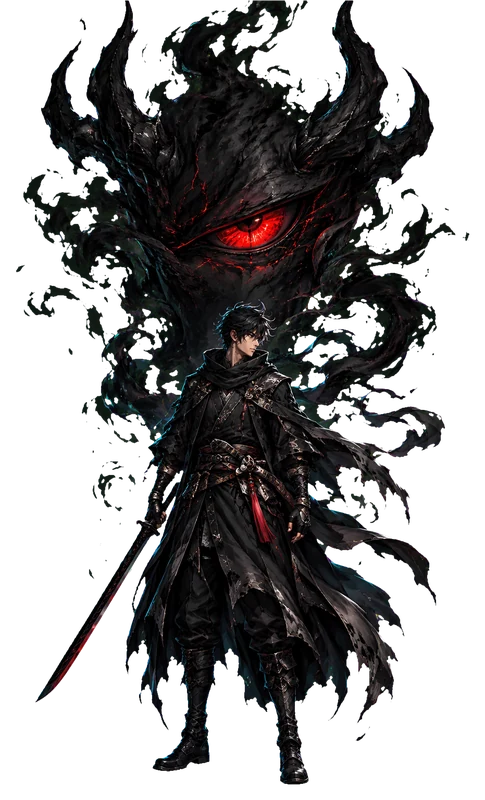
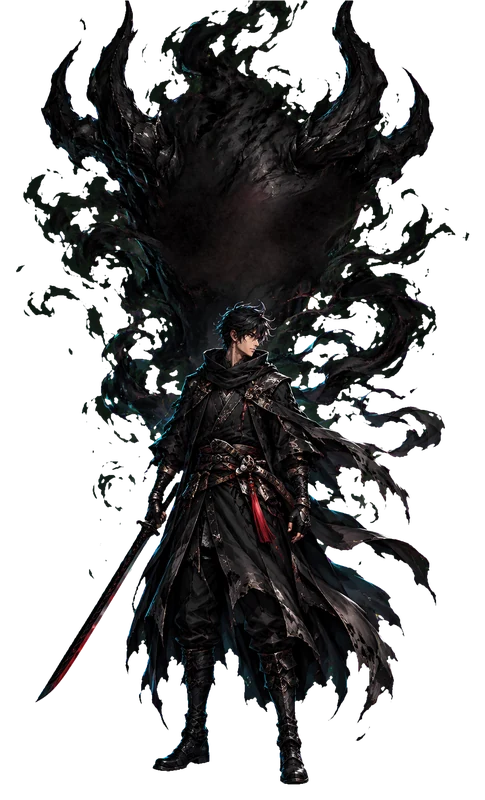
art: remove red eye from Shadow Devil portrait (shadow only); roster title; AGENTS.md note

Changed region(s): [[0.3402, 0.2188, 0.7113, 0.3438], [0.6186, 0.1875, 0.6495, 0.2188]]

diff --git a/dist-crazygames/src/js/data/EnemyRoster.js b/dist-crazygames/src/js/data/EnemyRoster.js
@@ -10,7 +10,7 @@ export const ENEMY_ROSTER = [
   { id: 'crimson-assassin', name: 'CRIMSON ASSASSIN', title: 'Twin Sickles',     accentColor: '#ef4444', portrait: '/src/assets/web/enemy-02-crimson-assassin.webp' },
   { id: 'oni-guard',        name: 'ONI GUARD',        title: 'Iron Demon',       accentColor: '#f97316', portrait: '/src/assets/web/enemy-03-oni-guard.webp' },
   { id: 'shadow-sentry',    name: 'SHADOW SENTRY',    title: 'Crimson Visor',    accentColor: '#dc2626', portrait: '/src/assets/web/enemy-04-shadow-sentry.webp' },
-  { id: 'shadow-devil',     name: 'SHADOW DEVIL',     title: 'The Watcher',      accentColor: '#ef4444', portrait: '/src/assets/web/enemy-05-shadow-devil.webp' },
+  { id: 'shadow-devil',     name: 'SHADOW DEVIL',     title: 'Living Shadow',    accentColor: '#7c3aed', portrait: '/src/assets/web/enemy-05-shadow-devil.webp' },
 ];
 
 /** A random roster entry (used for flavour art only). */

diff --git a/src/js/data/EnemyRoster.js b/src/js/data/EnemyRoster.js
@@ -10,7 +10,7 @@ export const ENEMY_ROSTER = [
   { id: 'crimson-assassin', name: 'CRIMSON ASSASSIN', title: 'Twin Sickles',     accentColor: '#ef4444', portrait: '/src/assets/web/enemy-02-crimson-assassin.webp' },
   { id: 'oni-guard',        name: 'ONI GUARD',        title: 'Iron Demon',       accentColor: '#f97316', portrait: '/src/assets/web/enemy-03-oni-guard.webp' },
   { id: 'shadow-sentry',    name: 'SHADOW SENTRY',    title: 'Crimson Visor',    accentColor: '#dc2626', portrait: '/src/assets/web/enemy-04-shadow-sentry.webp' },
-  { id: 'shadow-devil',     name: 'SHADOW DEVIL',     title: 'The Watcher',      accentColor: '#ef4444', portrait: '/src/assets/web/enemy-05-shadow-devil.webp' },
+  { id: 'shadow-devil',     name: 'SHADOW DEVIL',     title: 'Living Shadow',    accentColor: '#7c3aed', portrait: '/src/assets/web/enemy-05-shadow-devil.webp' },
 ];
 
 /** A random roster entry (used for flavour art only). */

diff --git a/AGENTS.md b/AGENTS.md
@@ -192,7 +192,7 @@ Founder's reference: a mobile-game lobby (profile plate top-left, icon column, n
 ### 8.6 v2.6 — Painted art pass (2026-10-05)
 AI-generated art (prompts: `docs/ART_PROMPTS.md`) is cut out with **`scripts/key-art.py`** (green screen -> transparent WebP; `--kind enemy|button`, `--mirror`). Re-run it for every new asset so edges and green spill are handled the same way.
 - **Touch buttons** now use painted discs: `src/assets/web/btn-{left,right,jump,slash,shuriken,dash}.webp` (256px; Right = mirrored Left). CSS block "v2.6 Painted touch buttons" in `ui-kit.css` sets them as `background-image` on `#touch-*`, hides the SVG icon + label (the art contains the icon) and keeps press = `transform` + `brightness`. The older CSS bevel is the fallback. `TouchControls.js` is unchanged.
-- **Enemy portraits** `src/assets/web/enemy-0N-*.webp` + `src/js/data/EnemyRoster.js` (`ENEMY_ROSTER`, `randomEnemy()`): Shadow Ronin, Crimson Assassin, Oni Guard, Shadow Sentry, Shadow Devil. Used as flavour art only: a random one on the loading screen (`.dd-loading-foe`) and above the Game Over card (`.dd-modal-foe`, `UIManager._setModalFoe`). It is NOT "who killed you" (not tracked). In-game enemies are still code-drawn.
+- **Enemy portraits** `src/assets/web/enemy-0N-*.webp` + `src/js/data/EnemyRoster.js` (`ENEMY_ROSTER`, `randomEnemy()`): Shadow Ronin, Crimson Assassin, Oni Guard, Shadow Sentry, Shadow Devil (the red eye was removed on the founder's request: the source image was inpainted + re-textured so only the dark shadow remains, then keyed with `key-art.py`). Used as flavour art only: a random one on the loading screen (`.dd-loading-foe`) and above the Game Over card (`.dd-modal-foe`, `UIManager._setModalFoe`). It is NOT "who killed you" (not tracked). In-game enemies are still code-drawn.
 - **Still missing art:** Cursed Monk, Oni Boss (Shadow Entity), top-right HUD icons (settings / sound / restart / fullscreen), pedestal/panel textures.
 - Rule: keep each portrait <= ~110 KB and each button <= ~20 KB.
 
